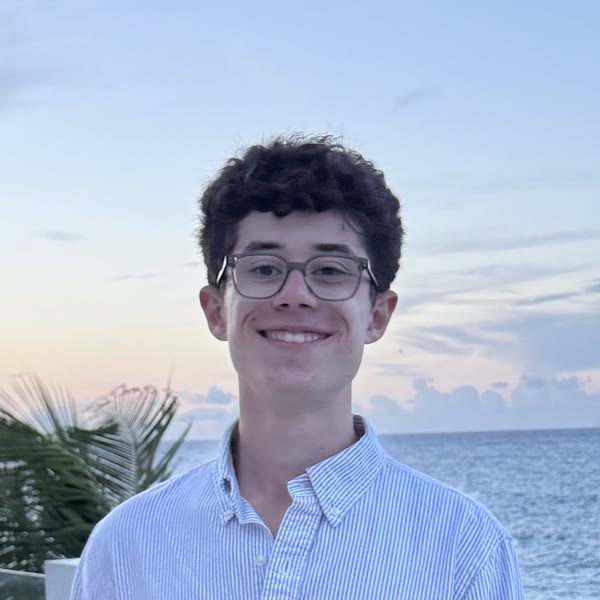
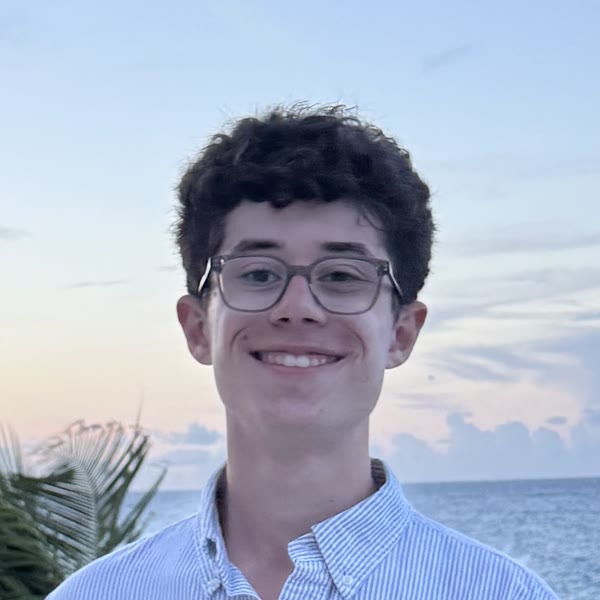
Add drone photo, tighten headshot, revise research layout options

diff --git a/style.css b/style.css
@@ -414,34 +414,29 @@ section { padding-top: 24px; }
   #experience[data-layout="c"] .when br { display: none; }
   #experience[data-layout="c"] .job > div:last-child { grid-column: 2; grid-row: 2; }
 
-  /* D: three cards with the photo on top */
-  #experience[data-layout="d"] .timeline { display: grid; grid-template-columns: repeat(3, 1fr); gap: 14px; margin-top: 12px; }
-  #experience[data-layout="d"] .job { display: block; padding: 0 0 14px; border: 1px solid var(--line); border-radius: var(--radius); background: var(--surface); overflow: hidden; }
-  #experience[data-layout="d"] .side { display: flex; flex-direction: column-reverse; }
-  #experience[data-layout="d"] .thumb { width: 100%; aspect-ratio: 16 / 10; margin: 0; border-radius: 0; box-shadow: none; }
-  #experience[data-layout="d"] .when { padding: 10px 14px 0; }
-  #experience[data-layout="d"] .when br { display: none; }
-  #experience[data-layout="d"] .job > div:last-child { padding: 2px 14px 0; }
-  #experience[data-layout="d"] .job ul { font-size: 13.5px; }
-
-  /* E: larger photo alternating left and right */
-  #experience[data-layout="e"] .job { grid-template-columns: 190px 1fr; grid-template-rows: auto 1fr; gap: 0 22px; }
-  #experience[data-layout="e"] .side { display: contents; }
-  #experience[data-layout="e"] .thumb { grid-column: 1; grid-row: 1 / span 2; width: 190px; margin-top: 2px; }
-  #experience[data-layout="e"] .when { grid-column: 2; grid-row: 1; padding-top: 0; }
-  #experience[data-layout="e"] .when br { display: none; }
-  #experience[data-layout="e"] .job > div:last-child { grid-column: 2; grid-row: 2; }
-  #experience[data-layout="e"] .job:nth-child(even) { grid-template-columns: 1fr 190px; }
-  #experience[data-layout="e"] .job:nth-child(even) .thumb { grid-column: 2; }
-  #experience[data-layout="e"] .job:nth-child(even) .when,
-  #experience[data-layout="e"] .job:nth-child(even) > div:last-child { grid-column: 1; }
-
-  /* F: one row of photos at the top, text-only jobs below */
-  #experience[data-layout="f"] .timeline { display: grid; grid-template-columns: repeat(12, 1fr); column-gap: 12px; margin-top: 12px; }
+  /* F: text-only jobs, then one row of photos at the bottom */
+  #experience[data-layout="f"] .timeline { display: grid; grid-template-columns: repeat(12, 1fr); column-gap: 12px; margin-top: 4px; }
   #experience[data-layout="f"] .job, #experience[data-layout="f"] .side { display: contents; }
-  #experience[data-layout="f"] .thumb { grid-row: 1; grid-column: span 4; width: 100%; aspect-ratio: 16 / 10; margin: 0 0 8px; }
-  #experience[data-layout="f"] .when { grid-column: 1 / span 2; padding-top: 16px; }
-  #experience[data-layout="f"] .job > div:last-child { grid-column: 3 / -1; padding-top: 14px; padding-bottom: 12px; }
+  #experience[data-layout="f"] .thumb { grid-row: 4; grid-column: span 4; width: 100%; aspect-ratio: 4 / 3; margin: 10px 0 0; }
+  #experience[data-layout="f"] .when { grid-column: 1 / span 2; padding-top: 14px; }
+  #experience[data-layout="f"] .job > div:last-child { grid-column: 3 / -1; padding: 12px 0; }
+
+  /* G: date above the title, larger photo on the right */
+  #experience[data-layout="g"] .job { grid-template-columns: 1fr 230px; grid-template-rows: auto 1fr; gap: 0 24px; }
+  #experience[data-layout="g"] .side { display: contents; }
+  #experience[data-layout="g"] .thumb { grid-column: 2; grid-row: 1 / span 2; width: 230px; margin-top: 2px; }
+  #experience[data-layout="g"] .when { grid-column: 1; grid-row: 1; padding-top: 0; }
+  #experience[data-layout="g"] .when br { display: none; }
+  #experience[data-layout="g"] .job > div:last-child { grid-column: 1; grid-row: 2; }
+
+  /* H: largest photo on the left, date on the title line */
+  #experience[data-layout="h"] .job { grid-template-columns: 240px 1fr; gap: 0 24px; }
+  #experience[data-layout="h"] .side { display: contents; }
+  #experience[data-layout="h"] .thumb { grid-column: 1; grid-row: 1; width: 240px; margin-top: 2px; }
+  #experience[data-layout="h"] .when { grid-column: 2; grid-row: 1; justify-self: end; padding-top: 2px; }
+  #experience[data-layout="h"] .when br { display: none; }
+  #experience[data-layout="h"] .job > div:last-child { grid-column: 2; grid-row: 1; }
+  #experience[data-layout="h"] .job h3 { padding-right: 150px; }
 }
 .layout-bar {
   position: fixed; left: 50%; bottom: 18px; transform: translateX(-50%); z-index: 60;

diff --git a/script.js b/script.js
@@ -41,7 +41,7 @@
     el.setAttribute("aria-label", "View larger: " + label.alt);
     function open() {
       var alt = el.querySelector(".alt");
-      var img = canHover && alt && el.matches(":hover") ? alt : el.querySelector("img");
+      var img = canHover && alt && !el.dataset.second && el.matches(":hover") ? alt : el.querySelector("img");
       // The video is left out under "reduce motion", which falls back to its still photo
       var vid = el.querySelector("video");
       var showVid = vid && getComputedStyle(vid).display !== "none";
@@ -50,8 +50,9 @@
       if (showVid) { boxVid.src = vid.currentSrc; boxVid.play(); }
       else { boxImg.src = img.src; boxImg.alt = img.alt; }
       // Touch screens can't hover, so the second view goes underneath the first
-      var second = (!canHover && alt) ||
-        (el.dataset.second ? { src: el.dataset.second, alt: el.dataset.secondAlt } : null);
+      var second = el.dataset.second
+        ? { src: el.dataset.second, alt: el.dataset.secondAlt }
+        : (!canHover && alt);
       boxImg2.hidden = !second;
       if (second) { boxImg2.src = second.src; boxImg2.alt = second.alt; }
       box.classList.toggle("two", !!second);
@@ -89,7 +90,7 @@
   bar.setAttribute("role", "group");
   bar.setAttribute("aria-label", "Research layout");
   bar.innerHTML = "<span>Research layout</span>";
-  var options = [["b", "B: right side"], ["c", "C: photo left"], ["d", "D: cards"], ["e", "E: zigzag"], ["f", "F: photo row"]];
+  var options = [["b", "B: right side"], ["c", "C: photo left"], ["f", "F: photos at bottom"], ["g", "G: big photo right"], ["h", "H: big photo left"]];
   var buttons = options.map(function (o) {
     var b = document.createElement("button");
     b.type = "button";

diff --git a/index.html b/index.html
@@ -144,9 +144,9 @@
       <div class="job">
         <div class="side">
           <div class="when">May 2026 – <br>Aug 2026</div>
-          <div class="thumb" data-second="images/lab_team.jpg" data-second-alt="Aerial Swarms Lab team with the blimp" data-caption="The 29 g autonomous blimp at Lehigh, its 3D-printed frame in CAD, and the summer 2026 lab team.">
-            <img src="images/blimp.jpg" alt="Red helium blimp with a 3D-printed gondola" loading="lazy">
-            <img class="alt" src="images/blimp_frame.jpg" alt="CAD render of the 3D-printed blimp frame" loading="lazy">
+          <div class="thumb" data-second="images/lab_team.jpg" data-second-alt="Aerial Swarms Lab team with the blimp" data-caption="The flight hardware hanging beneath the blimp's envelope, and the summer 2026 lab team.">
+            <img src="images/blimp_gondola.jpg" alt="Small propeller drone hanging beneath a red balloon, above an open hand" loading="lazy">
+            <img class="alt" src="images/blimp.jpg" alt="Red helium blimp with a 3D-printed gondola" loading="lazy">
             <span class="hint">hover</span>
           </div>
         </div>
